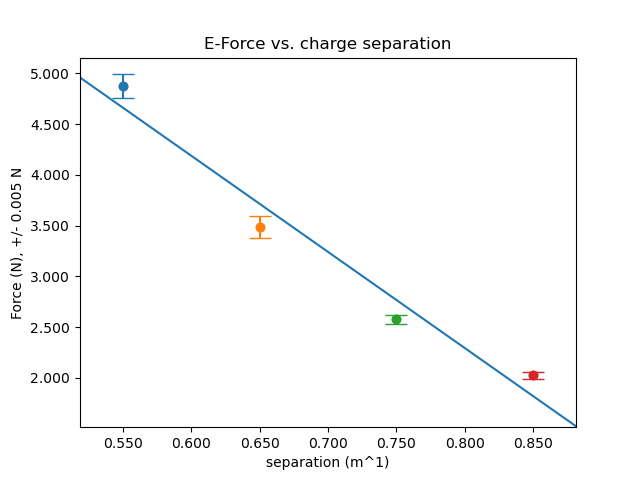
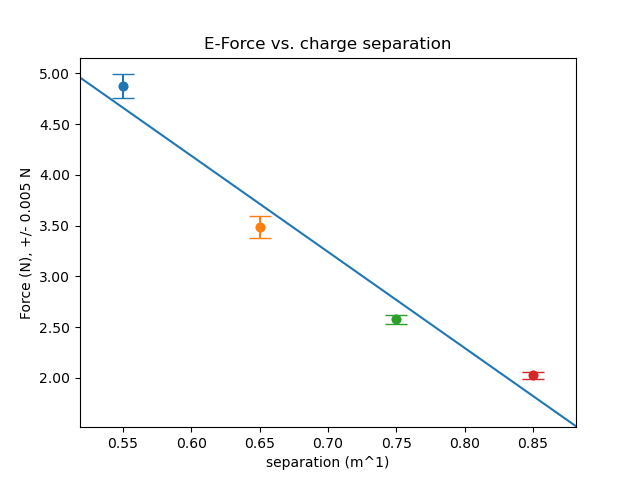
set decimal points to 2

diff --git a/labs/LabA2.py b/labs/LabA2.py
@@ -11,7 +11,7 @@ from matplotlib.ticker import FormatStrFormatter
 """
 
 FORCE_INSTRUMENTAL_UNCERTAINTY = 0.005
-AXES_DECIMAL_POINTS = 3
+AXES_DECIMAL_POINTS = 2
 
 class DokiAvgPoint:
     def __init__(self, insError):
